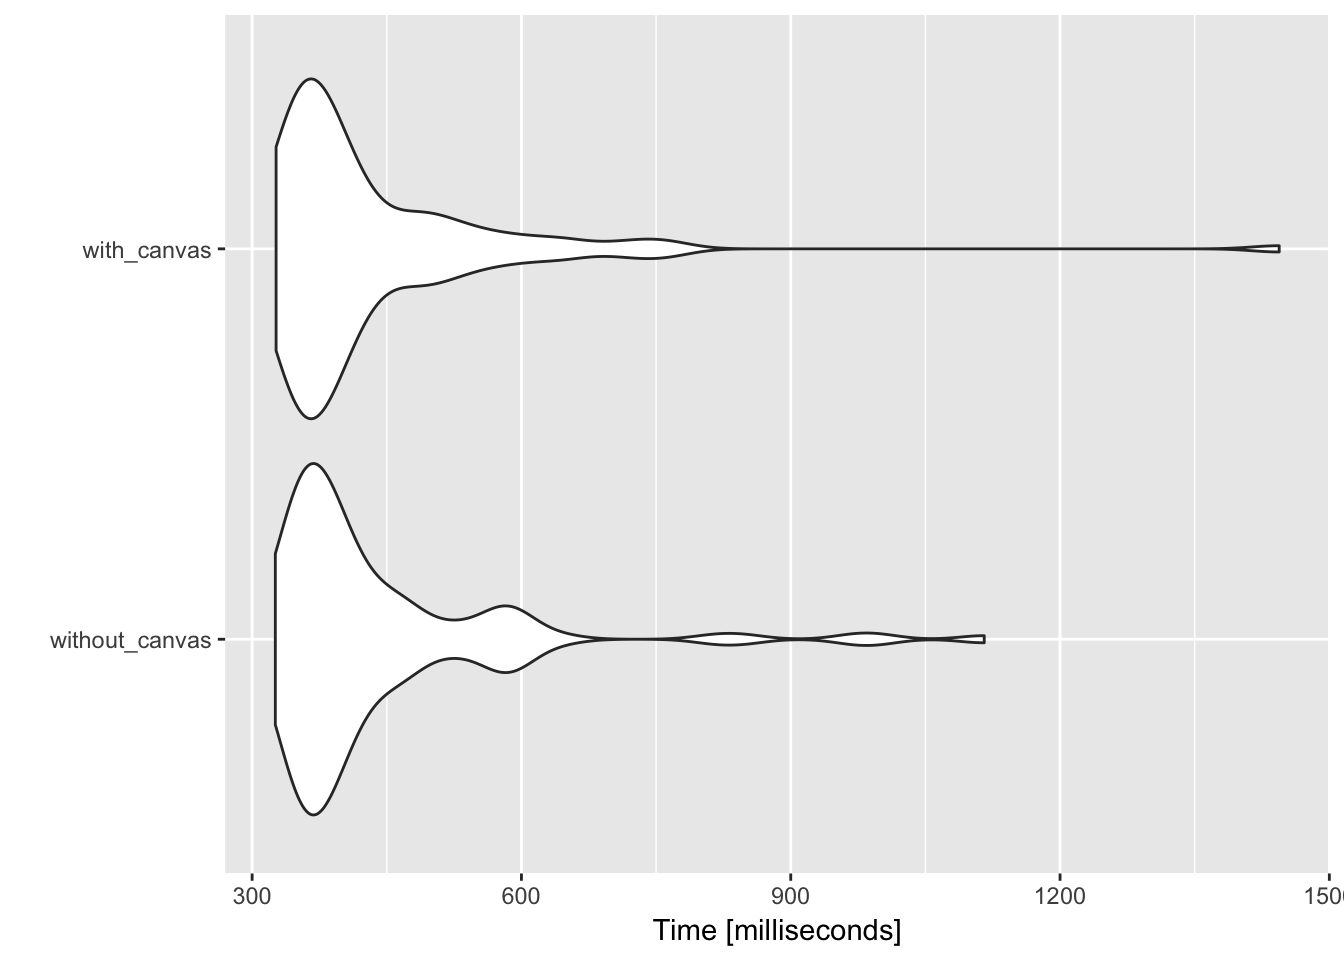
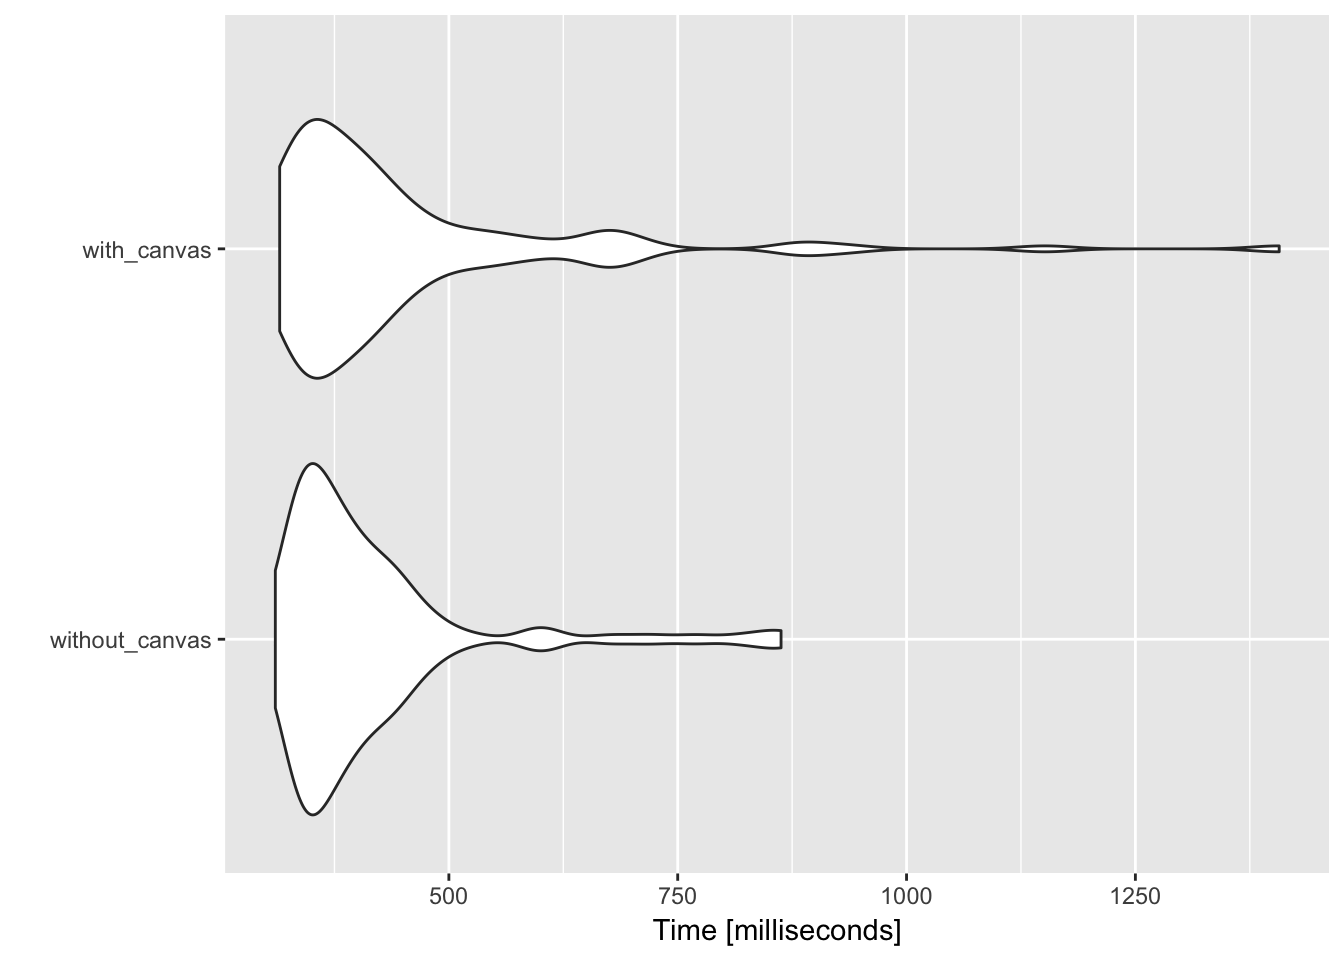
And remembering to build rmd before push :facepalm:

diff --git a/content/post/2017-07-24-Beneath-the-canvas.html b/content/post/2017-07-24-Beneath-the-canvas.html
@@ -6,7 +6,7 @@ large_thumb: no
 tags:
 - R
 - ggplot2
-categories: R
+categories: [R]
 ---
 
 
@@ -149,9 +149,9 @@ test &lt;- microbenchmark::microbenchmark(
 
 test
 #&gt; Unit: milliseconds
-#&gt;            expr      min       lq     mean   median       uq      max
-#&gt;  without_canvas 325.8315 361.4331 440.2583 391.9669 461.8199 1115.552
-#&gt;     with_canvas 326.6866 355.5999 431.7643 381.6589 470.6959 1444.132
+#&gt;            expr      min       lq     mean   median       uq       max
+#&gt;  without_canvas 310.3969 345.9495 412.6676 377.9214 430.8899  862.8982
+#&gt;     with_canvas 315.1524 347.7527 448.3973 389.7718 462.3749 1407.1113
 #&gt;  neval cld
 #&gt;    100   a
 #&gt;    100   a</code></pre>
